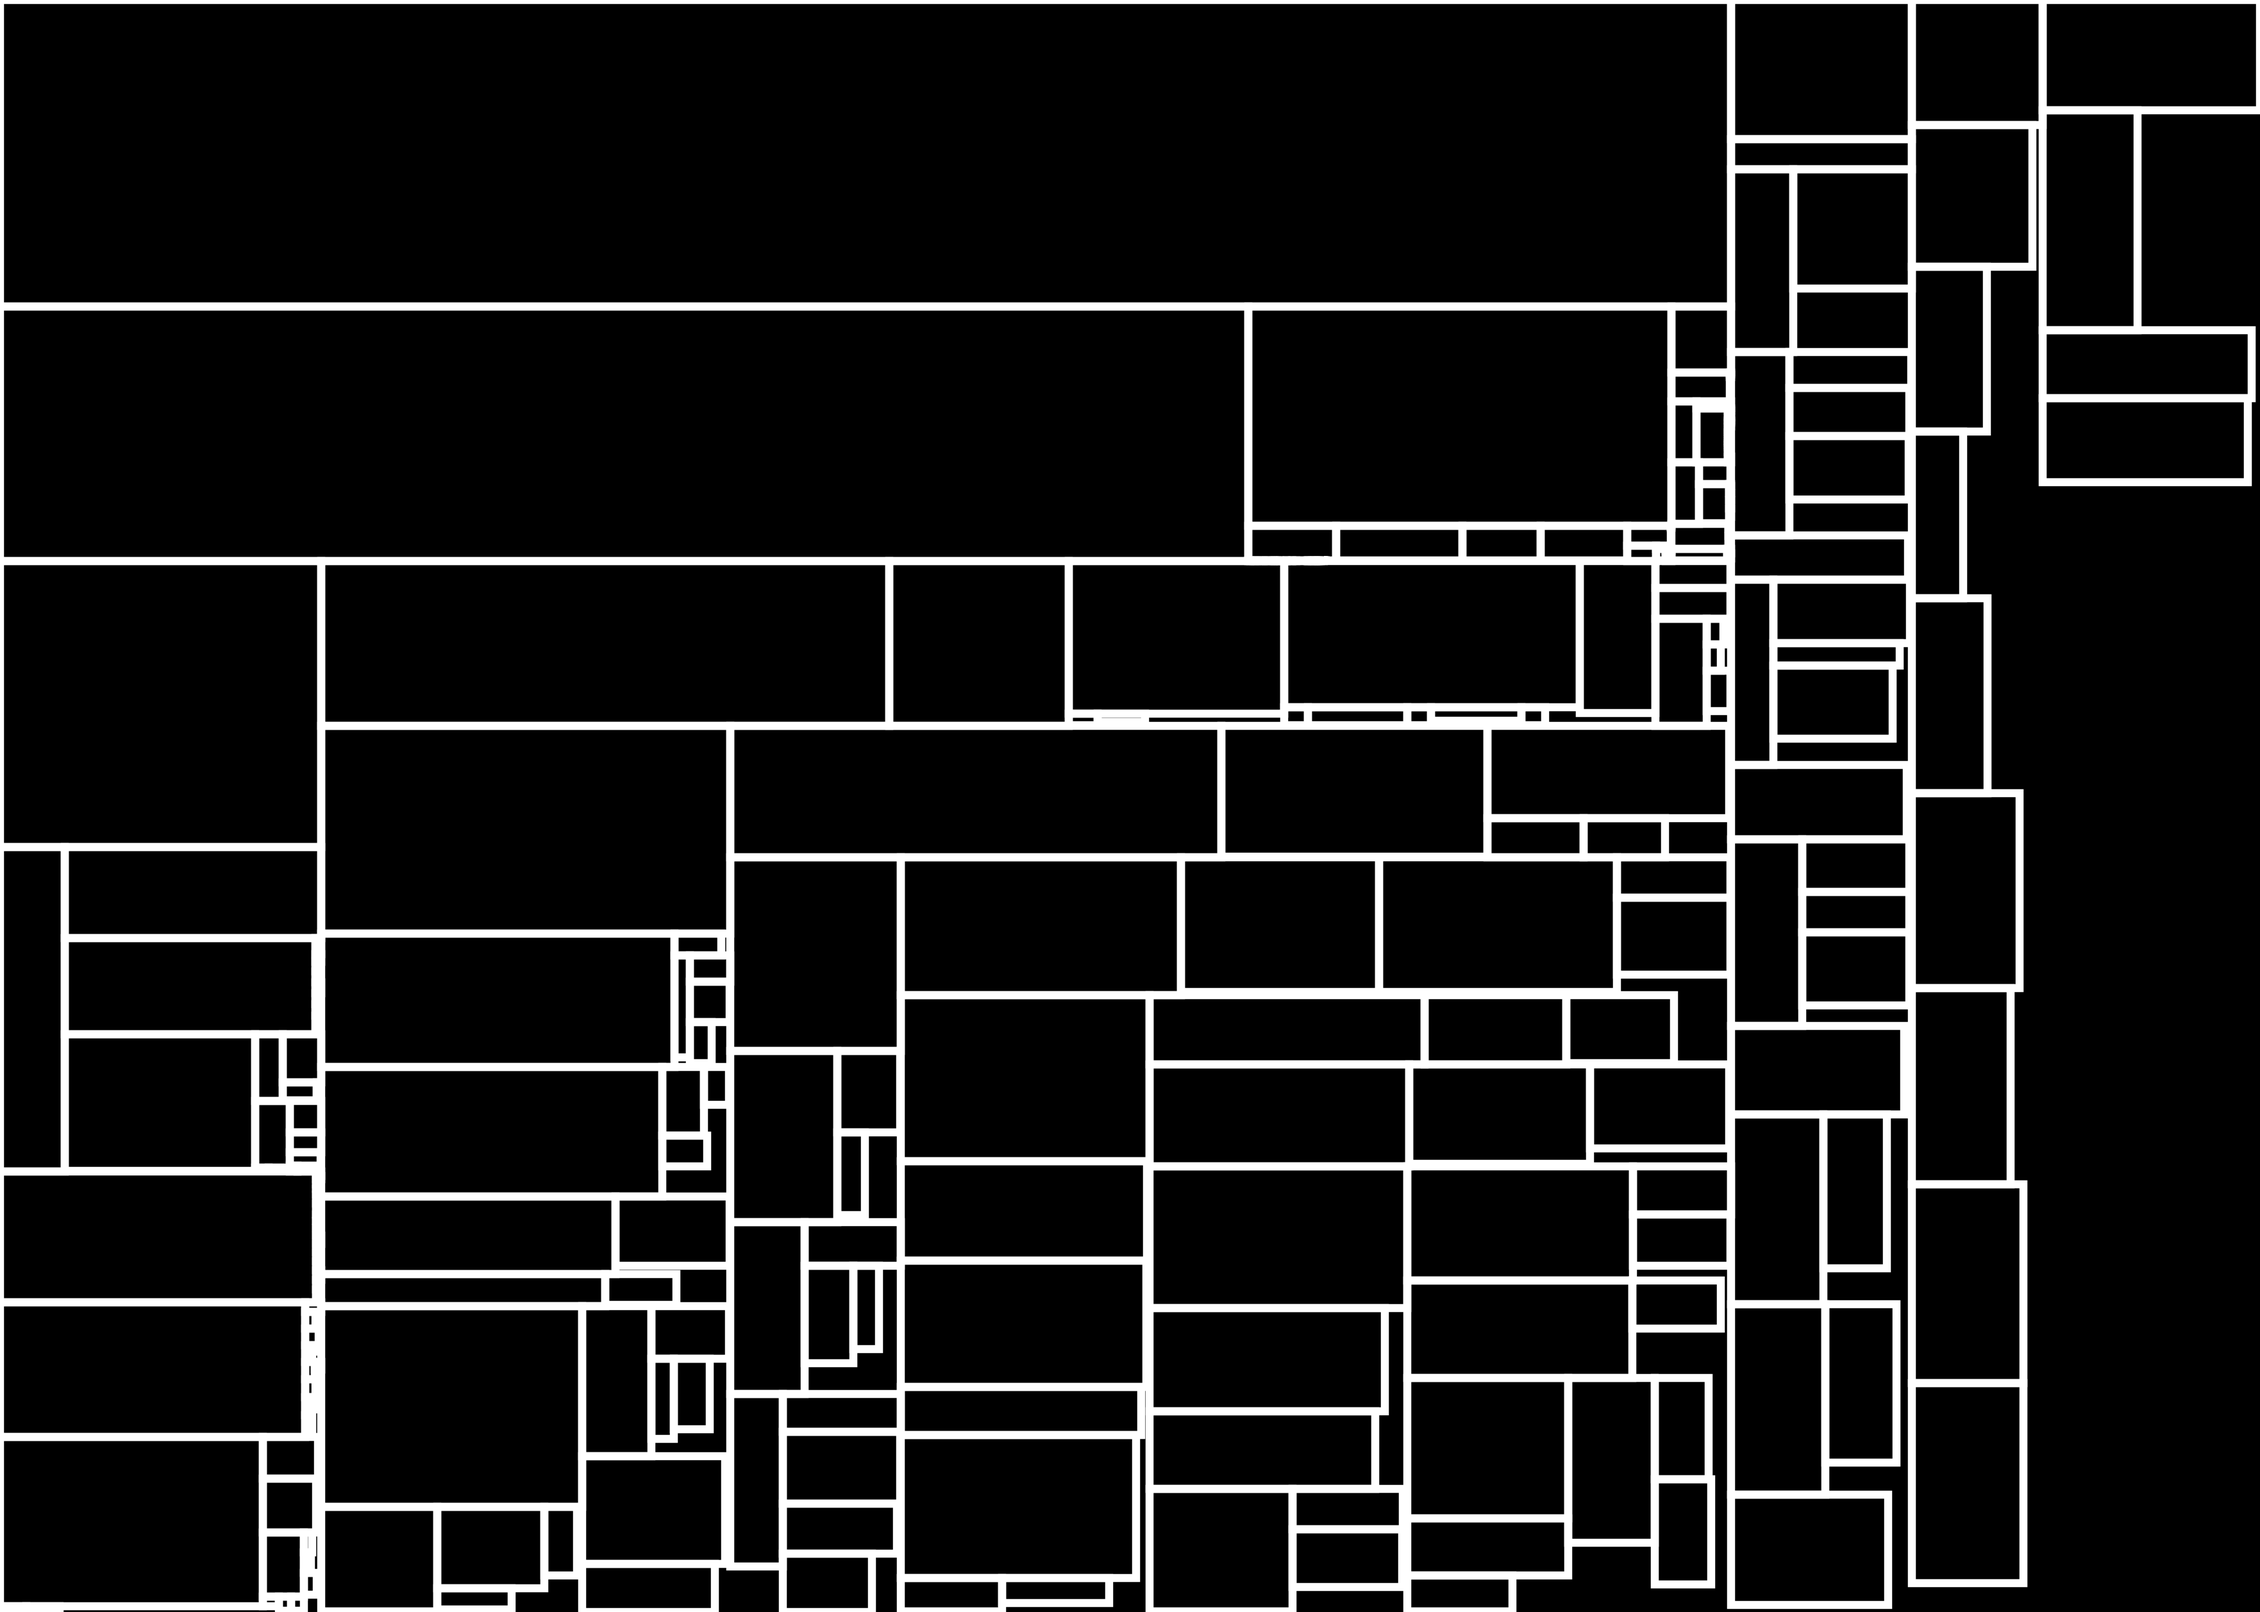
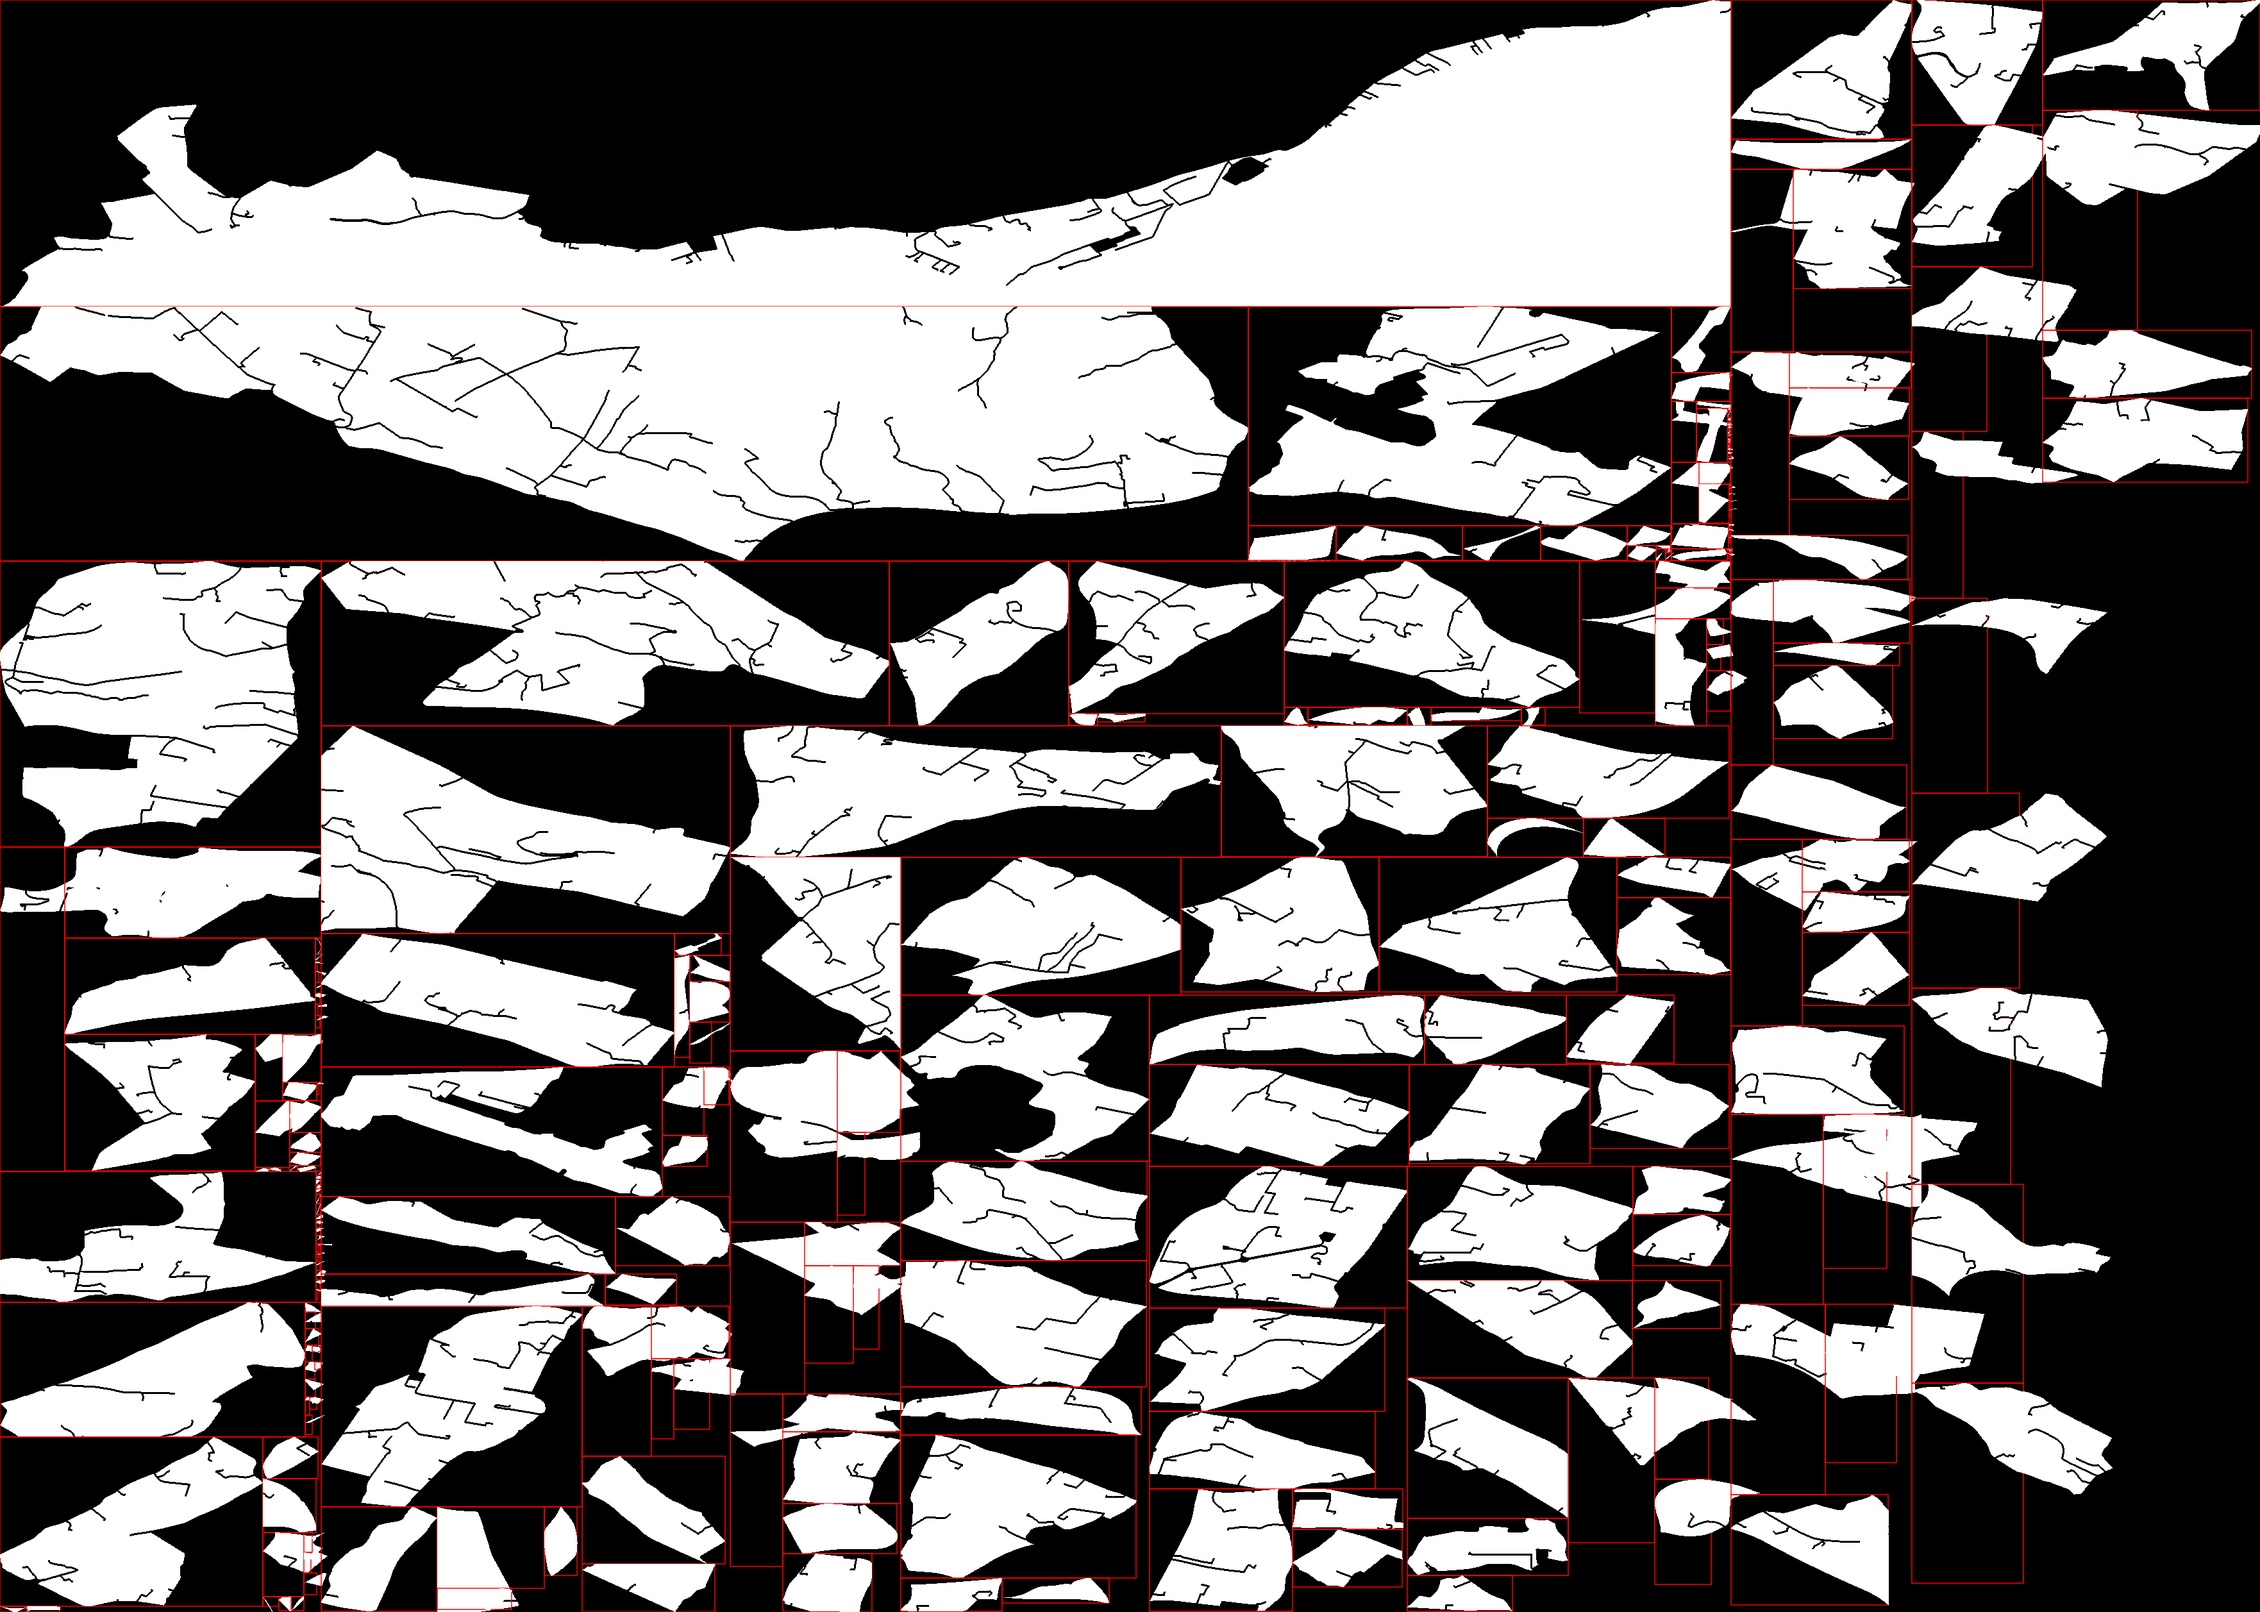
drawing of original pieces in layout i.e. not just rectangles
- note that the layour algorithm appears to be rotating some rectangles

diff --git a/apps/keks/backend/layout/src/bin/layout.rs b/apps/keks/backend/layout/src/bin/layout.rs
@@ -1,11 +1,11 @@
-use std::{fs::File, io::BufReader, path::PathBuf};
+use std::{collections::HashMap, fs::File, io::{BufReader, Cursor}, path::PathBuf};
 
 use binpack2d::{bin_new, Dimension, Rectangle};
 use clap::{command, Parser};
 use conversion::projection::Projection;
-use geo::{BoundingRect, Geometry, GeometryCollection};
+use geo::{BoundingRect, Geometry, GeometryCollection, Polygon};
 use geozero::{geo_types::GeoWriter, geojson::GeoJsonReader, GeozeroDatasource};
-use tiny_skia::Pixmap;
+use image::{ImageReader, RgbaImage};
 
 #[derive(clap:: ValueEnum, Clone, Debug)]
 enum BinType {
@@ -54,7 +54,7 @@ async fn main() -> Result<(), Box<dyn std::error::Error>> {
     if let Geometry::GeometryCollection(collection) = writer.take_geometry().unwrap() {
         println!("Found {} geometries", collection.len());
 
-        let (dimensions, projection) = create_dimensions(&collection);
+        let (dimensions, projection, identified) = create_dimensions(&collection);
 
         let bounds = collection.bounding_rect().unwrap();
         let (width, height) = (
@@ -65,39 +65,42 @@ async fn main() -> Result<(), Box<dyn std::error::Error>> {
         let (inserted, rejected) = bin.insert_list(&dimensions);
         println!("Inserted: {} Rejected: {}", inserted.len(), rejected.len());
 
-        let pixmap = draw_layout(&inserted, width as u32, height as u32)?;
-        pixmap.save_png(args.layout)?;
+        let image = draw_layout(&inserted, &projection, &identified)?;
+        image.save(args.layout)?;
     }
 
     Ok(())
 }
 
-fn create_dimensions(collection: &GeometryCollection) -> (Vec<Dimension>, Projection) {
+fn create_dimensions(collection: &GeometryCollection) -> (Vec<Dimension>, Projection, HashMap<isize, &Polygon>) {
     let scale = 10000.0;
     let projection = Projection::from_geo_bounding_box_to_scaled_space(collection.bounding_rect().unwrap(), scale);
+    let mut identified = HashMap::new();
 
     let mut dimensions = vec![];
-    for (id, geometry) in collection.iter().enumerate() {
+    for (index, geometry) in collection.iter().enumerate() {
         if let Geometry::Polygon(polygon) = geometry {
             let bounds = polygon.bounding_rect().unwrap();
+            let id = index as isize;
             let dimension = Dimension::with_id(
-                id as isize, 
+                id, 
                 (bounds.width() * projection.scale_x) as i32, 
                 (bounds.height() * projection.scale_y) as i32, 
                 0);
             dimensions.push(dimension);
+            identified.insert(id, polygon);
         }
     }
-    (dimensions, projection)
+    (dimensions, projection, identified)
 }
 
-fn draw_layout(rects: &Vec<Rectangle>, width: u32, height: u32) -> Result<Pixmap, Box<dyn std::error::Error>> {
+fn draw_layout(rects: &Vec<Rectangle>, projection: &Projection, identified: &HashMap<isize, &Polygon>) -> Result<RgbaImage, Box<dyn std::error::Error>> {
     use tiny_skia::*;
 
-    let max_x = rects.iter().map(|rect| rect.x() + rect.width()).max().unwrap() as u32;
-    let max_y = rects.iter().map(|rect| rect.y() + rect.height()).max().unwrap() as u32;
+    let max_x = rects.iter().map(|rect| rect.x() + rect.width()).max().unwrap();
+    let max_y = rects.iter().map(|rect| rect.y() + rect.height()).max().unwrap();
 
-    let mut pixmap = Pixmap::new(max_x, max_y).ok_or("Failed to create pixmap")?;
+    let mut pixmap = Pixmap::new(max_x as u32, max_y as u32).ok_or("Failed to create pixmap")?;
 
     let mut black = Paint::default();
     black.set_color(Color::BLACK);
@@ -107,11 +110,15 @@ fn draw_layout(rects: &Vec<Rectangle>, width: u32, height: u32) -> Result<Pixmap
     white.set_color(Color::WHITE);
     white.anti_alias = true;
 
+    let mut red = Paint::default();
+    red.set_color_rgba8(255, 0, 0, 255);
+    red.anti_alias = true;
+
     let mut stroke = Stroke::default();
-    stroke.width = 0.005 * (width as f32).min(height as f32);
+    stroke.width = 0.0005 * (max_x as f32).min(max_y as f32);
 
     pixmap.fill_rect(
-        Rect::from_xywh(0.0, 0.0, width as f32, height as f32).ok_or("Failed to create rect")?,
+        Rect::from_xywh(0.0, 0.0, max_x as f32, max_y as f32).ok_or("Failed to create rect")?,
         &black,
         Transform::identity(),
         None
@@ -125,8 +132,32 @@ fn draw_layout(rects: &Vec<Rectangle>, width: u32, height: u32) -> Result<Pixmap
         pb.line_to(rect.x() as f32, rect.y() as f32 + rect.height() as f32);
         pb.close();
         let path = pb.finish().ok_or("Failed to finish path")?;
-        pixmap.stroke_path(&path, &white, &stroke, Transform::identity(), None);
+        pixmap.stroke_path(&path, &red, &stroke, Transform::identity(), None);
+
+        let id = rect.id();
+        let polygon = identified.get(&id).ok_or(format!("Failed to find geometry for id {}", id))?;
+        let mut pb = PathBuilder::new();
+        let bounds = polygon.bounding_rect().unwrap();
+        polygon.exterior().points().for_each(|p| {
+            let (x, y) = (
+                (p.x() - bounds.min().x) * projection.scale_x + rect.x() as f64,
+                (p.y() - bounds.min().y) * projection.scale_y + rect.y() as f64
+            );
+            if pb.is_empty() {
+                pb.move_to(x as f32, y as f32);
+            } else {
+                pb.line_to(x as f32, y as f32);
+            }
+        });
+        pb.close();
+        let path = pb.finish().ok_or("Failed to finish path")?;
+        pixmap.fill_path(&path, &white, FillRule::EvenOdd, Transform::identity(), None);
     }
 
-    Ok(pixmap)
+    let png_bytes = pixmap.encode_png()?;
+    let mut reader = ImageReader::new(Cursor::new(png_bytes));
+    reader.set_format(image::ImageFormat::Png);
+    let decoded = reader.decode()?;
+
+    Ok(decoded.into_rgba8())
 }
